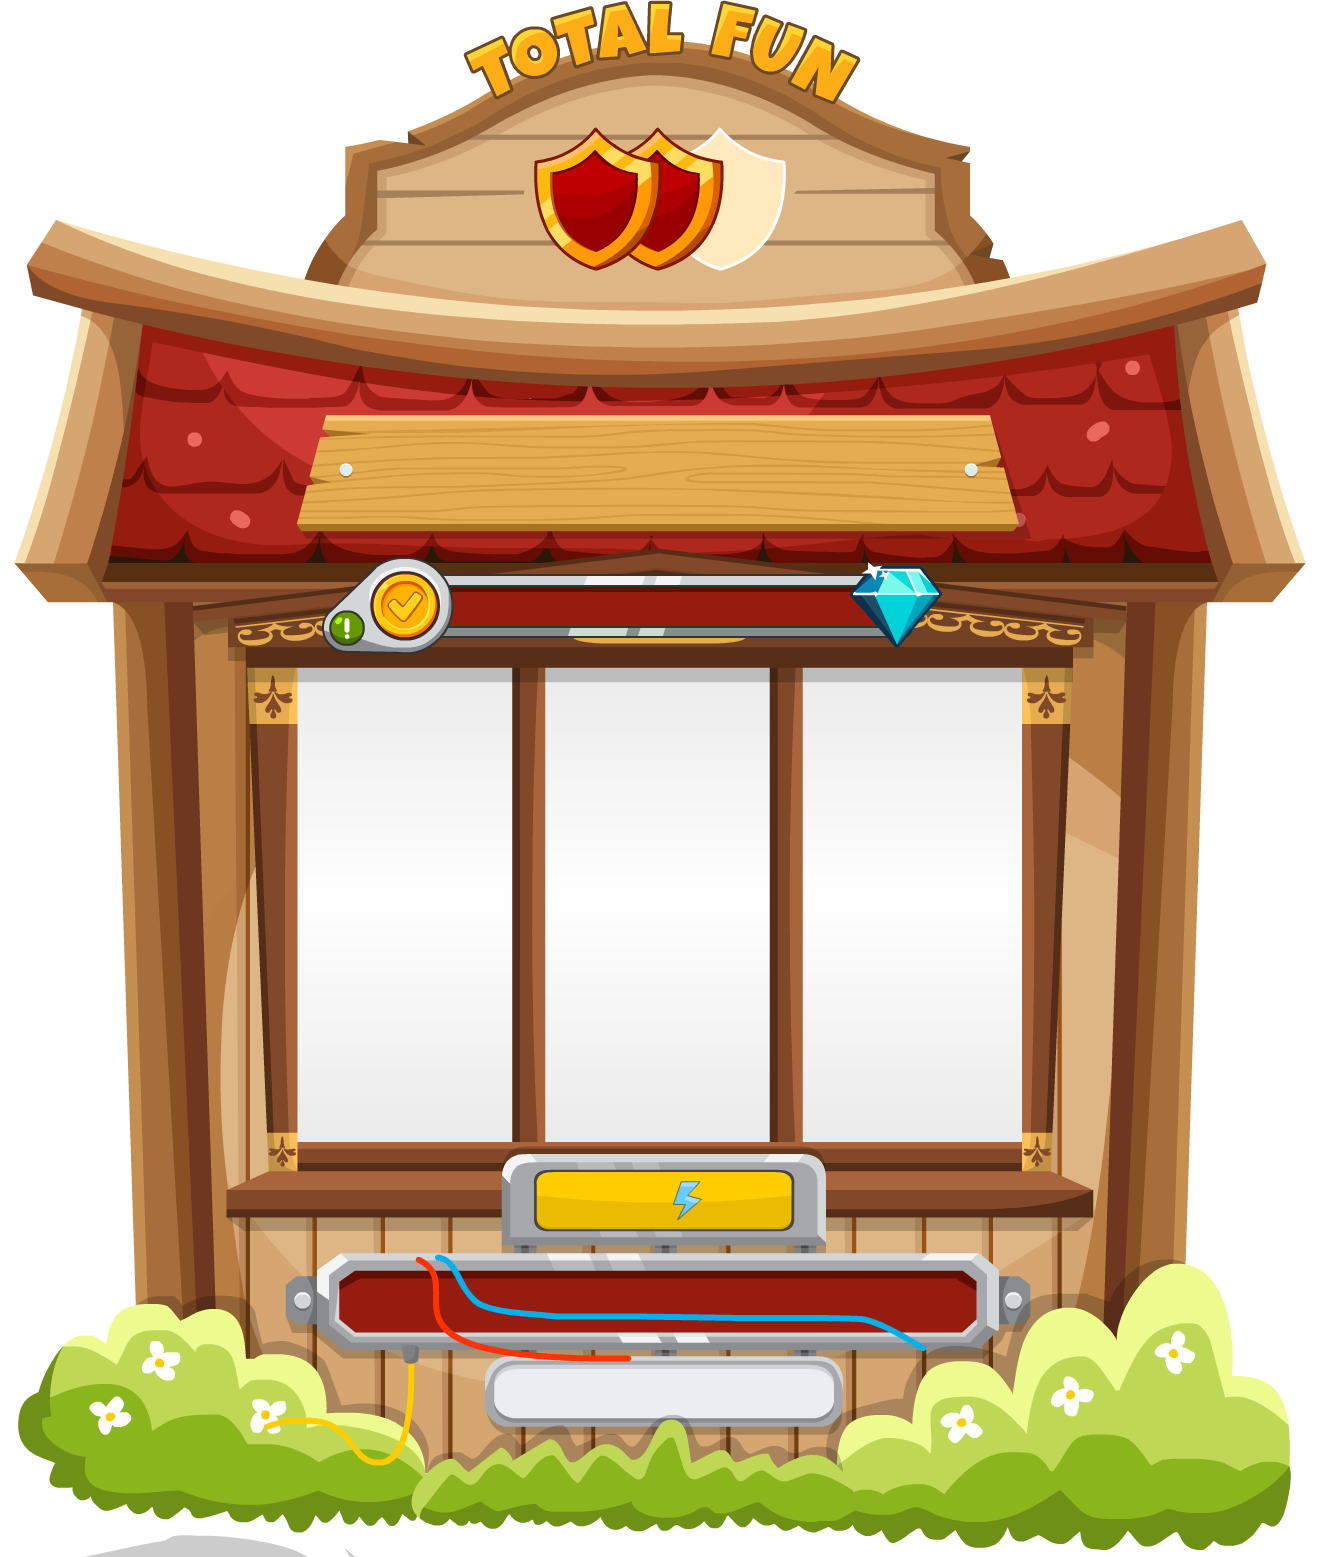
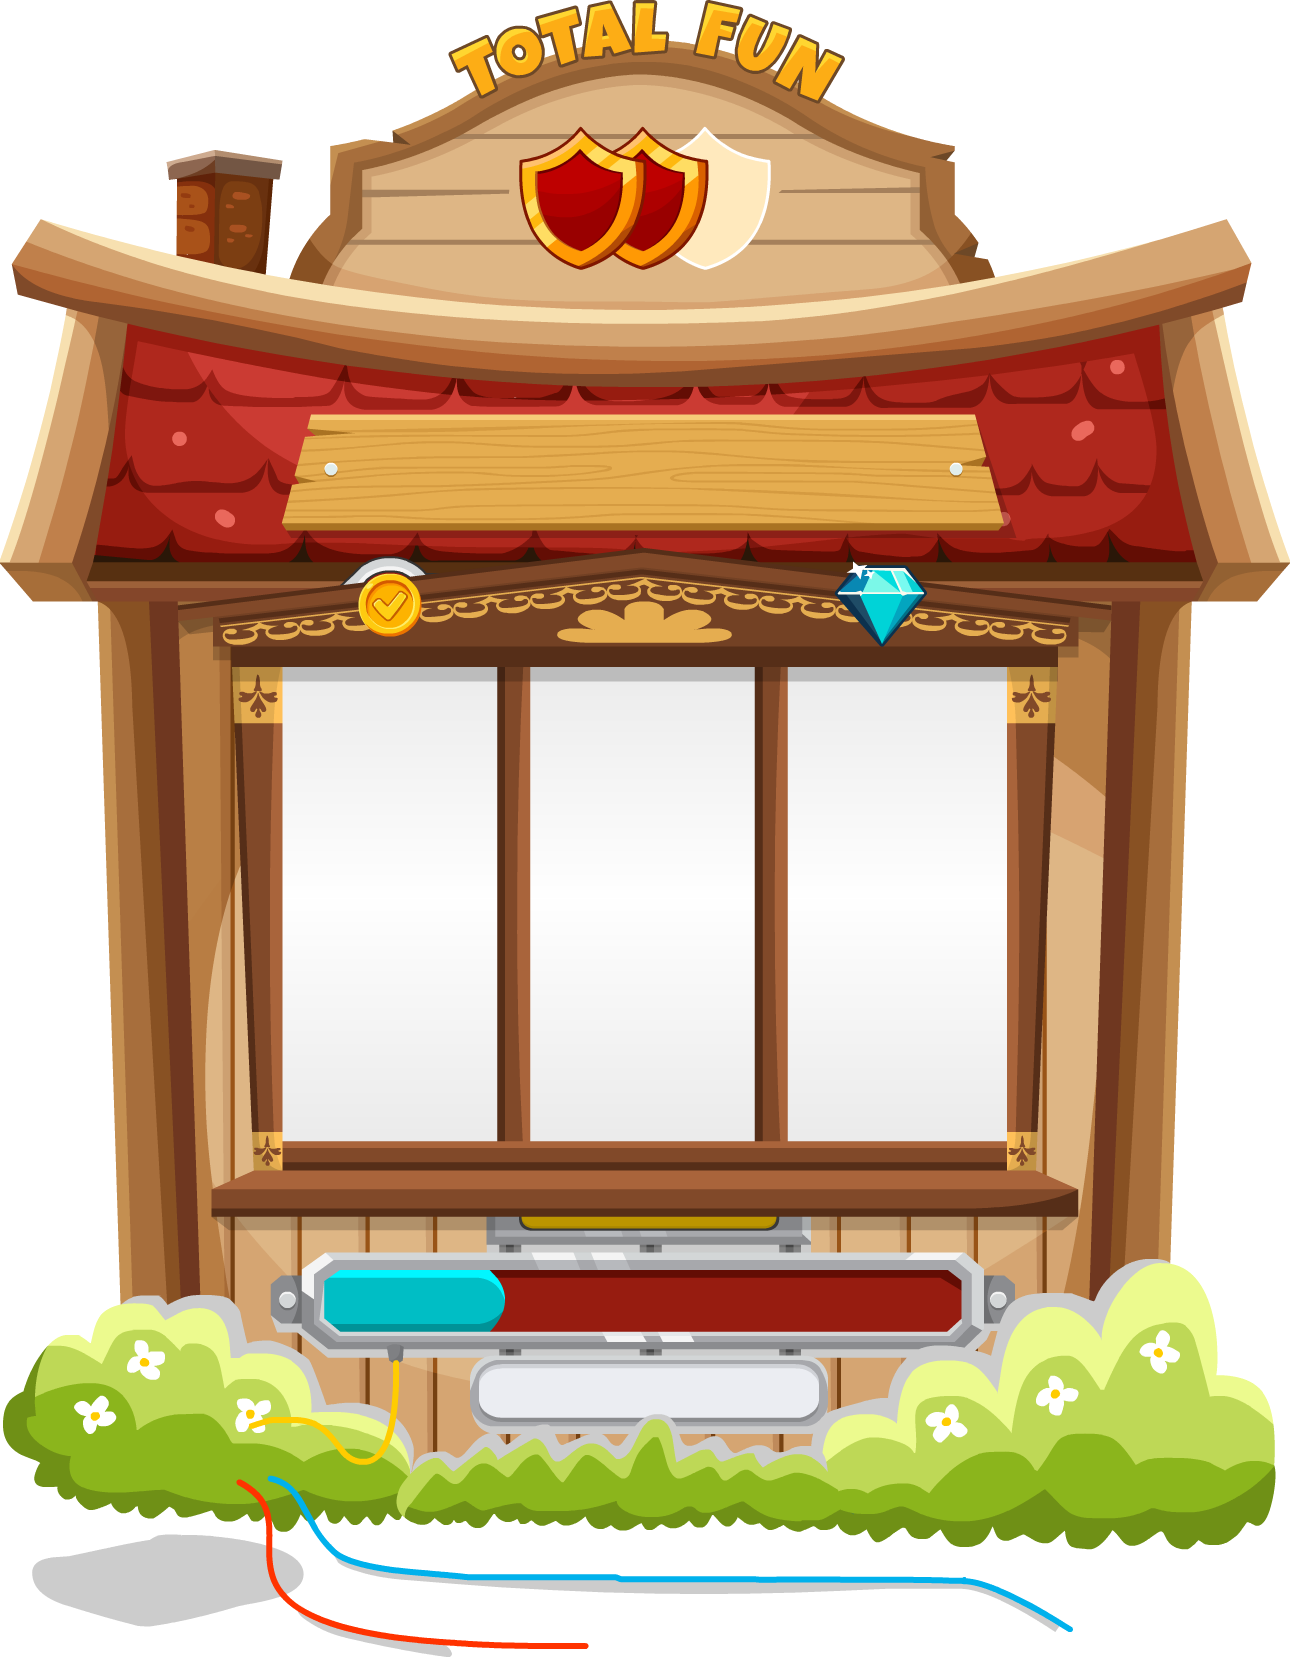
fix

diff --git a/src/components/SlotMachine/SlotMachine.tsx b/src/components/SlotMachine/SlotMachine.tsx
@@ -5,8 +5,7 @@ import { useRouter } from "next/navigation";
 import { useEffect, useState } from "react";
 import { getGameArray, getReelsRandomArray, getRouteByResults } from "@/utils/slot/symbols.ts";
 import BuySpinModal from "@/app/shop/_components/BuySpinModal.tsx";
-import { BoltIcon } from "@heroicons/react/24/outline";
-import { motion } from "framer-motion";
+import { Generator } from "./partials/Generator";
 
 const SlotReel = dynamic(() => import('@/components/SlotReel'), { ssr: false });
 
@@ -80,41 +79,20 @@ export default function SlotMachine()
     return (
 
         <div className="relative flex flex-col items-center justify-center mt-[35px] z-2">
-            <div className="flex flex-col justify-start items-center w-[530px] h-[630px]" style={{
+            <div className="flex flex-col justify-start items-center w-[490px] h-[630px]" style={{
             backgroundImage: 'url("/assets/slot/slot-house.png")',
             backgroundSize: 'cover',     
             backgroundPosition: 'center',
         }}>
             
-            <div className="flex m-[260px] gap-[10px]">
+            <div className="flex m-[250px] gap-[10px]">
                 <SlotReel symbol={reels[0]} spinning={rolling} />
                 <SlotReel symbol={reels[1]} spinning={rolling} />
                 <SlotReel symbol={reels[2]} spinning={rolling} />
             </div>
         </div>
 
-        <motion.div
-            style={{
-                width: 130,
-                height: 120,
-                backgroundImage: 'url("/assets/slot/generator.png")',
-                backgroundSize: "cover",
-                backgroundPosition: "center",
-                position: "absolute",
-                bottom: 179,
-                left: 0,
-            }}
-            animate={{
-                x: [0, -0.8, 0.6, -0.4, 0],
-                y: [0, 0.4, -0.3, 0.2, 0],
-                rotate: [0, -0.4, 0.3, -0.2, 0],
-            }}
-            transition={{
-                duration: 0.3,
-                repeat: Infinity,
-                ease: "linear",
-            }}
-        />
+        <Generator />
 
         { spins > 0 ? (
                 <button onClick={spin} disabled={rolling} className="spin-button button w-[260px] h-[160px] mt-[50px]">

diff --git a/src/components/SlotMachine/partials/Generator.tsx b/src/components/SlotMachine/partials/Generator.tsx
@@ -1,0 +1,32 @@
+import { motion, type MotionStyle, type Transition } from "framer-motion";
+
+const GENERATOR_STYLE: MotionStyle = {
+  width: 130,
+  height: 120,
+  backgroundImage: 'url("/assets/slot/generator.png")',
+  backgroundSize: "cover",
+  backgroundPosition: "center",
+  position: "absolute",
+  bottom: 179,
+  left: 0,
+};
+
+const GENERATOR_TRANSITION: Transition = {
+  duration: 0.3,
+  repeat: Infinity,
+  ease: "linear",
+};
+
+const GENERATOR_ANIMATE = {
+  x: [0, -0.8, 0.6, -0.4, 0],
+  y: [0, 0.4, -0.3, 0.2, 0],
+  rotate: [0, -0.4, 0.3, -0.2, 0],
+};
+
+export const Generator = () => (
+  <motion.div
+    style={GENERATOR_STYLE}
+    animate={GENERATOR_ANIMATE}
+    transition={GENERATOR_TRANSITION}
+  />
+);

diff --git a/src/App.tsx b/src/App.tsx
@@ -1,7 +1,7 @@
 import UserHeader from "@/app/profile/_components/UserHeader.tsx";
 import QuestSideNav from "@/components/QuestSideNav.tsx";
 import PromoSideNav from "@/components/PromoSideNav.tsx";
-import SlotMachine from "@/components/SlotMachine.tsx";
+import SlotMachine from "@/components/SlotMachine/SlotMachine";
 import FooterNav from "@/components/FooterNav.tsx";
 import CloudsLayer from "./components/CloudsLayer";
 

diff --git a/src/components/SlotReel.tsx b/src/components/SlotReel.tsx
@@ -87,6 +87,7 @@ export default function SlotReel({
     });
   }, [symbol]);
 
+  // TODO: fix slot reels height
   return (
     <div className="relative overflow-hidden w-[90px] h-[190px] mt-[10px]">
       <div ref={reelRef}>
